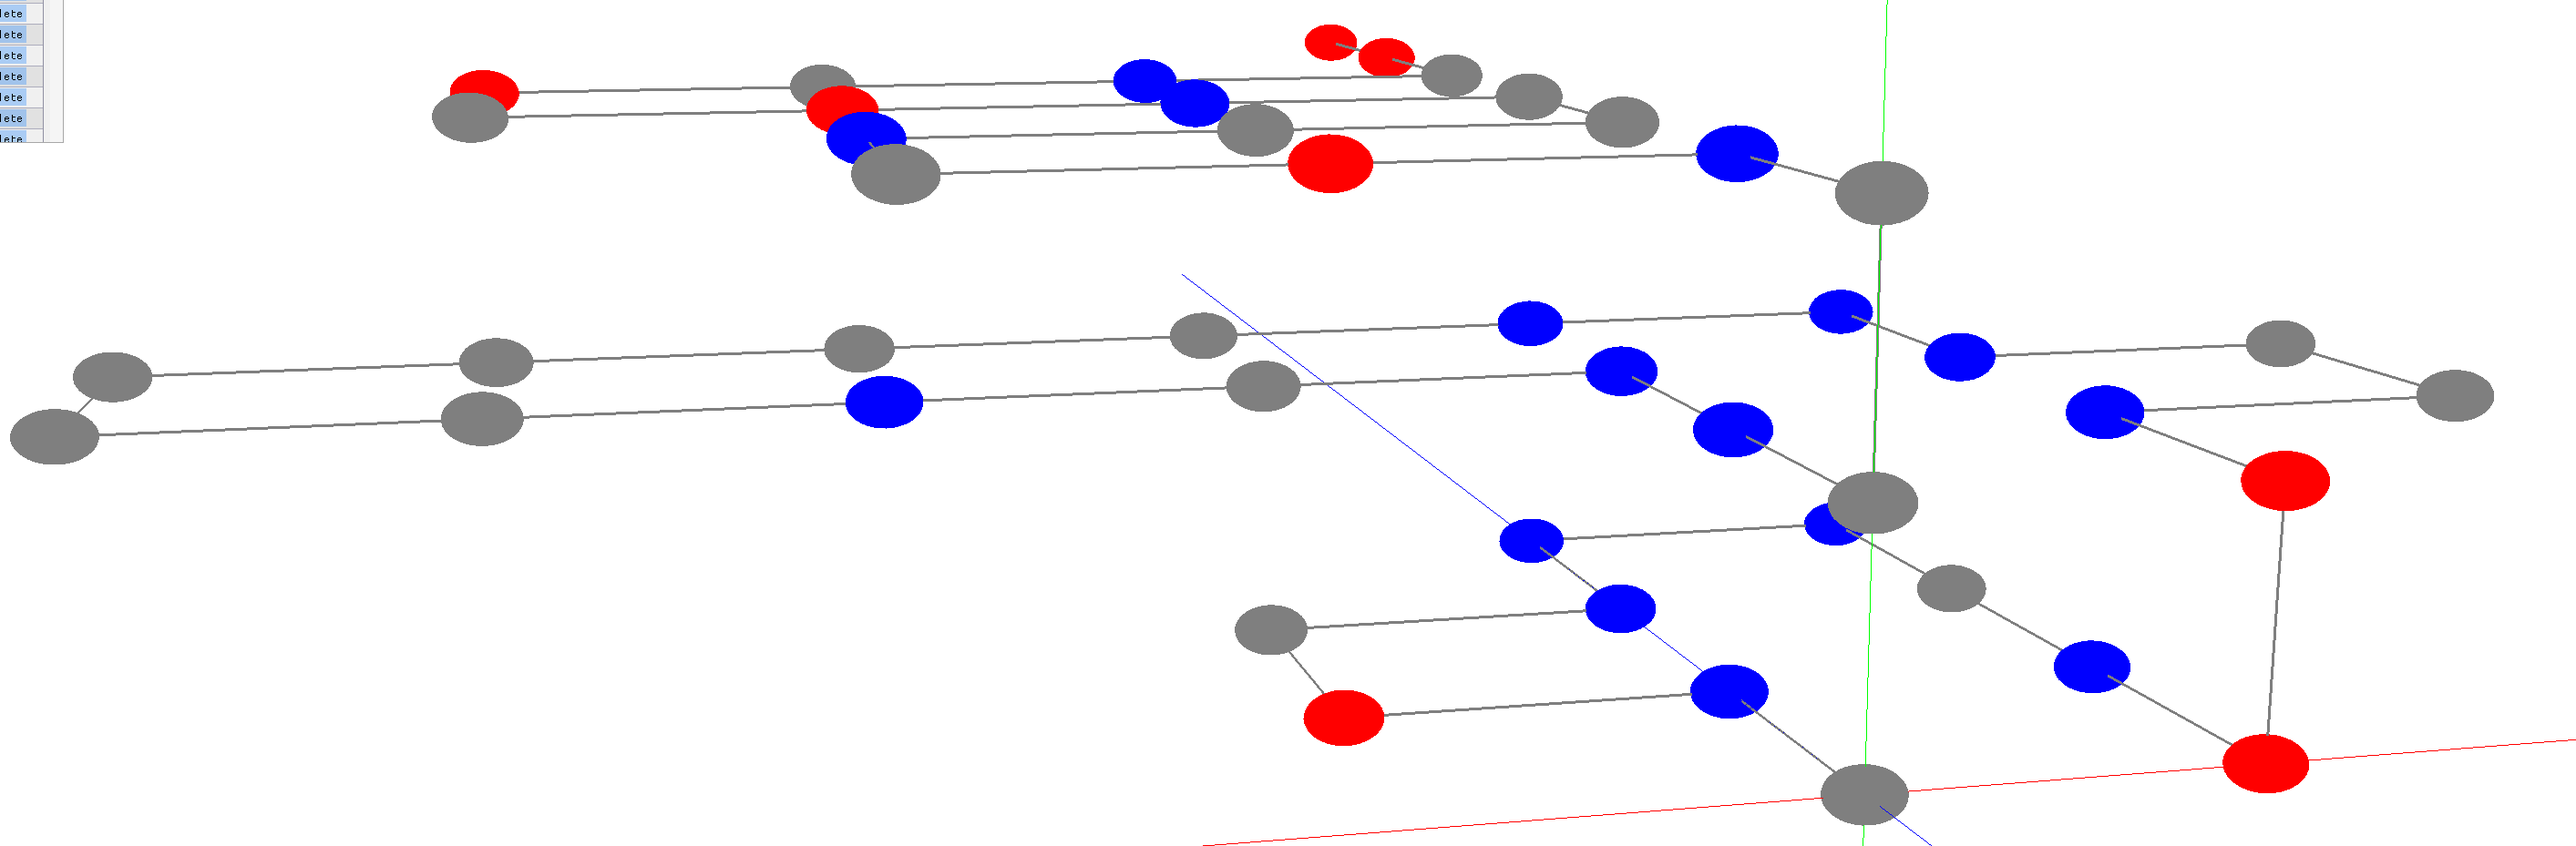
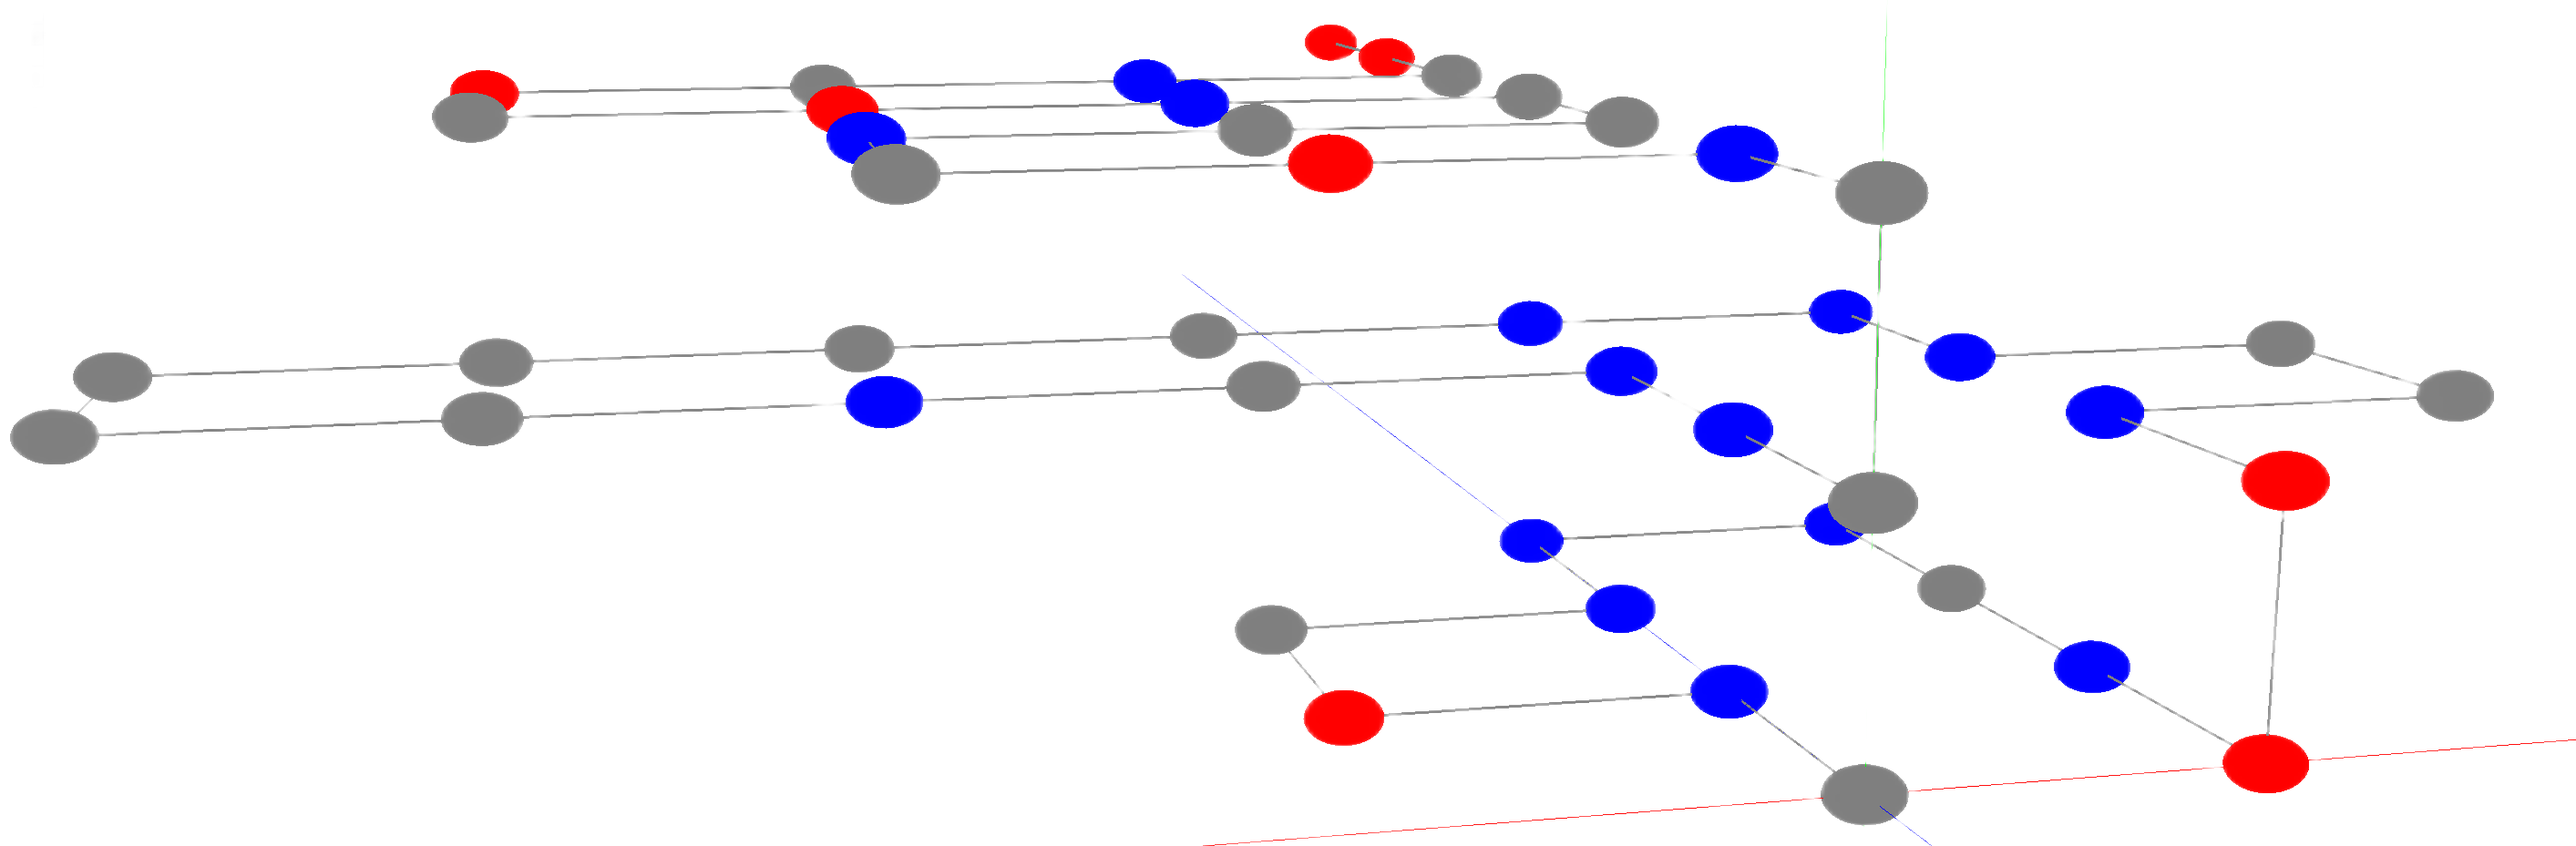
updated white images to removed background

diff --git a/src/data/projects/vae-gan.ts b/src/data/projects/vae-gan.ts
@@ -14,7 +14,7 @@ export const vaeGanProject: Project = {
   startDate: "2024-09-01",
   endDate: "2025-01-01",
   status: "completed",
-  tags: ["Machine Learning", "Computer Vision", "GANs", "VAE", "Deep Learning"],
+  tags: ["Deep Learning", "Computer Vision"],
   category: "machine-learning",
   keyFeatures: [
     "VAE-GAN hybrid architecture for image colorization",

diff --git a/src/data/projects/3d-protein-folding.ts b/src/data/projects/3d-protein-folding.ts
@@ -16,11 +16,7 @@ export const proteinFoldingProject: Project = {
   tags: [
     "Bioinformatics",
     "Algorithms",
-    "C++",
     "OpenGL",
-    "Protein Folding",
-    "Approximation Algorithms",
-    "Ant Colony Optimization",
   ],
   category: "bioinformatics",
   showTableOfContents: true,
